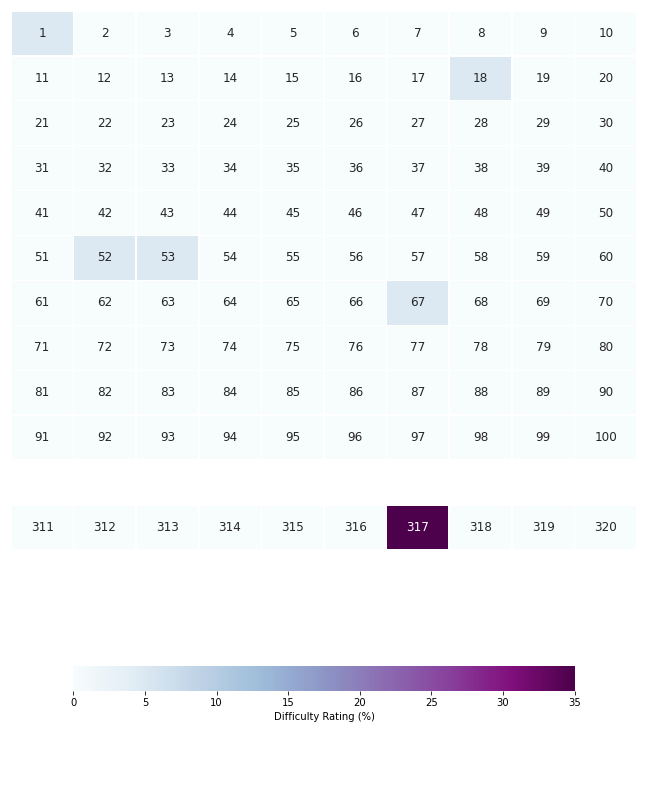
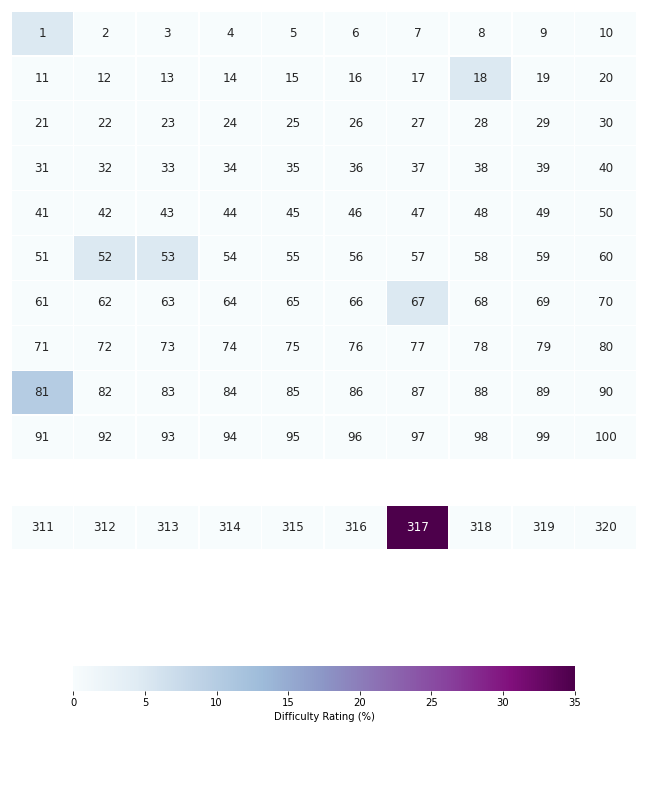
Updating heatmap

Changed region(s): [[0.0, 0.4545, 0.1235, 0.5455]]

diff --git a/make_progress_hmap.py b/make_progress_hmap.py
@@ -67,6 +67,7 @@ if __name__ == "__main__":
                  '18': [ 18, 5],
                  '52': [ 52, 5],
                  '53': [ 53, 5],
-                 '67': [ 67, 5]}
+                 '67': [ 67, 5],
+                 '81': [ 81,10]}
 
     main(progress)
